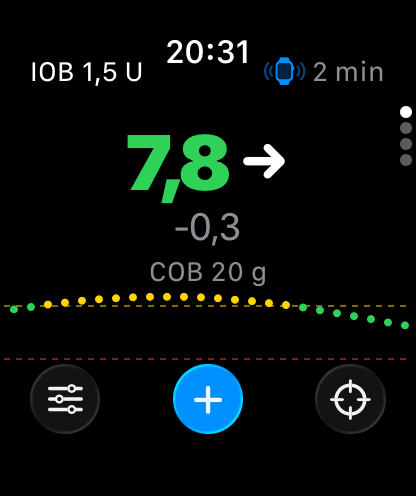
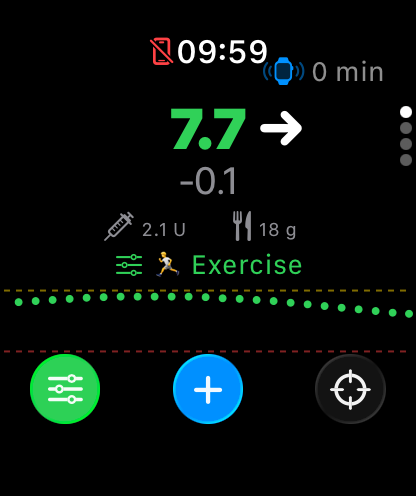
Document Loop profile switching, CGM sensor states and the 8.0 watch layout
Adds a Profiles section to the Loop remote page and a CGM Sensor States section on the setup page, describes the early warning option for the override and temp target end alarms, and updates the statistics settings. The watch page now matches the current glucose page, the scrub screen, the stale recommendation rule and the faster command results. Watch screenshots are retaken following Trio, with new images for the scrub screen and the Loop profile screens.

diff --git a/docs/setup/apple-watch.md b/docs/setup/apple-watch.md
@@ -13,7 +13,7 @@ Normally the watch gets everything from *LoopFollow* on the paired *iPhone*. Whe
 
 The watch app comes with *LoopFollow*. If it does not appear on your watch after you install or update *LoopFollow*, open the *Watch* app on your *iPhone*, scroll to *Available Apps* and tap *Install* next to *LoopFollow*.
 
-Open the watch app once while the *iPhone* is nearby, so it can receive what it needs to work without the *iPhone*.
+Open the watch app once while the *iPhone* is nearby, so it can receive what it needs to work without the *iPhone*. Until the *iPhone* has sent its first data, the watch shows *Waiting for LoopFollow on iPhone*.
 
 ## Using the Watch App
 
@@ -28,37 +28,38 @@ Turn the Digital Crown, or swipe up and down, to move between the pages: Glucose
 * The latest glucose value with its trend arrow and the change since the previous reading
     * Colors follow the *LoopFollow* settings on your *iPhone*: green in range, yellow high, red low, or white when *Color BG Text* is off
     * The value is struck through when the latest reading is 12 minutes old or more
-* Under the Glucose: syringe icon: insulin on board (IOB) and Knife and fork icon: Carbs on board (COB)
-* Top right: minutes since the latest reading
+* Under the change: insulin on board (IOB, syringe symbol) and carbs on board (COB, fork and knife symbol)
+    * *Not looping* is shown in red in place of IOB and COB when the loop has not reported for 15 minutes
+* The running override, in green, with its name and insulin needs, for example *Exercise · 80 %*
+* Top right: minutes since the latest reading, shown in red when the reading is 12 minutes old or more
     * An orange *iPhone* symbol means the watch cannot reach the *iPhone* right now
     * A blue watch symbol means the watch is fetching the data itself
-* *Not looping* is shown in red when the loop has not reported for 15 minutes
 * A graph of the last two hours
 * Buttons for remote commands at the bottom, see [Remote Commands](#remote-commands)
 
 When an alarm is sounding on the *iPhone*, its name is shown at the top of the page. Tap it to snooze the alarm on the *iPhone*. The watch app has no alarms of its own.
 
+When you lower your wrist and the screen dims, only the glucose value and the minutes since the reading stay on the screen.
+
 ### Graph
 
-The Loop graph and out-of-date Trio graph are shown.
+| Following *Loop* | Following *Trio* | Looking back in time |
+|:--:|:--:|:--:|
+| ![LoopFollow watch graph page following Loop](img/watch-graph-loop.png){width="200"} | ![LoopFollow watch graph page following Trio](img/watch-graph-trio.png){width="200"} | ![LoopFollow watch graph looking back in time](img/watch-graph-scrub.png){width="200"} |
 
-![LoopFollow watch graph page](img/watch-graph-loop.png){width="200"}
-{align="center"}
+The graph shows readings, boluses (blue triangles), carbs (orange dots), the high and low lines and the prediction in the same colors as the *iPhone*. Overrides are shown as a thin green band along the top, and the running override is named under the graph.
 
-![LoopFollow watch graph page](img/watch-graph-trio.png){width="200"}
-{align="center"}
-
-The graph shows readings, boluses (blue triangles), carbs (orange dots) and the prediction in the same colors as the *iPhone*.
-
-* Tap the button in the top corner to switch between 1, 3, 6, 12 and 24 hours.
-* Tap the graph to look back in time: turn the Digital Crown to move the marker, and the time and glucose at the marker are shown above the graph. Tap the graph again to return to now.
+* Tap the button in the top corner to switch between 1, 3, 6, 12 and 24 hours. The graph starts at 3 hours.
+* Tap the graph to look back in time. The graph opens on a screen of its own, where the Digital Crown moves the marker back in 5-minute steps, up to 24 hours. Below the graph you see the time at the marker, the glucose with a dot in its range color, and any carbs and bolus at that time, followed by the override that was running then. Tap the graph or go back to return.
 
 ### Statistics
 
 ![LoopFollow watch statistics page](img/watch-stats.png){width="200"}
 {align="center"}
 
-The same statistics as under the graph on the *iPhone*: time low, in range and high, average glucose, GMI or estimated A1C, and standard deviation.
+The same statistics as under the graph on the *iPhone*: time low, in range and high, average glucose, GMI or estimated A1C, and standard deviation. They cover the same period as on the *iPhone*: the last 24 hours, or today since midnight, as chosen with *Stats Period* in [Settings: General](lf-setup.md#general).
+
+When the watch is fetching on its own, an orange line shows the time of the *iPhone*'s latest statistics, for example *From the iPhone at 14:05*.
 
 ### Info
 
@@ -69,7 +70,7 @@ The *iPhone* info table: the same rows, in the same order, with the same colors 
 
 ## Complications
 
-You can add *LoopFollow* to your watch face. Edit the watch face, choose a complication slot and pick *LoopFollow*. All sizes show glucose, trend and the minutes since the reading; the rectangular size also shows a two-hour graph.
+You can add *LoopFollow* to your watch face. Edit the watch face, choose a complication slot and pick *LoopFollow*. All sizes show glucose, trend and the minutes since the reading. The rectangular, corner and inline sizes also show the change since the previous reading, and the rectangular size adds a two-hour graph.
 
 watchOS decides how often complications refresh, so a complication can lag behind the watch app. Always check the minutes shown next to the value.
 
@@ -85,6 +86,8 @@ The buttons on the glucose page send the same commands as the *LoopFollow* remot
 | Overrides (left) | Start one of the override presets, or cancel the active override |
 | **+** (middle) | Meal or Bolus |
 | Temp Target (right) | *Trio* only: start one of the temp target presets saved in *LoopFollow*, or cancel the active temp target |
+
+The Overrides button turns green while an override is running, and the Temp Target button turns green while a temp target is running. The buttons are grayed out when the watch can neither reach the *iPhone* nor send the command on its own.
 
 ![how a command from the watch is sent](img/watch-command-flow.png){width="600"}
 {align="center"}
@@ -102,6 +105,7 @@ The bolus screen opens on the amount. Set it with the Digital Crown, or with the
 
 **Starting at the recommendation**
 
+* A recommendation is only used when no manual bolus has been given since the loop cycle that calculated it. That recommendation does not count the newer bolus, so using it could double the insulin. The next loop cycle makes a new one.
 * When the recommendation from *Loop* or *Trio* is less than 5 minutes old, the amount starts there, rounded down to the bolus increment. The line under the amount shows the recommendation and how old it is, and turns red at 5 minutes.
 * Until you change the amount yourself, the watch keeps it in line with new loop cycles:
     * A lower recommendation replaces the amount, and the watch taps your wrist.
@@ -124,7 +128,7 @@ Tap *Presets*, under *Continue*, for your *LoopFollow* Quick-Pick boluses. The r
 ![LoopFollow watch meal entry](img/watch-meal.png){width="200"}
 {align="center"}
 
-* The rows at the top are your *LoopFollow* Quick-Pick meals.
+* The rows at the top are your *LoopFollow* Quick-Pick meals. Tap one to go straight to the confirmation, logged now.
 * Tap *Carbs* and set the amount with the Digital Crown, or with the **−** and **+** buttons beside the amount. Until you tap a field, the Digital Crown scrolls the screen.
 * For *Trio*, the same fields as on the *iPhone* follow below carbs: fat and protein when *Meal with Fat/Protein* is turned on, and a bolus when *Meal with Bolus* is turned on in the *LoopFollow* *Remote Settings*. Carbs and bolus are sent together as one command.
 * Tap *Time* to log the meal from 2 hours ago to 1 hour ahead. A bolus sent with the meal is given right away, also when the meal is set to another time.
@@ -132,7 +136,8 @@ Tap *Presets*, under *Continue*, for your *LoopFollow* Quick-Pick boluses. The r
 
 ### Safety Checks
 
-* Anything that delivers insulin needs a full turn of the Digital Crown to confirm. The watch must have a passcode, *Wrist Detection* must be on, and the watch must be unlocked on your wrist.
+* Anything that delivers insulin needs a full turn of the Digital Crown to confirm. A partial turn starts over after a 3-second pause, so an accidental bump of the crown never adds up to a confirmation. The watch must have a passcode, *Wrist Detection* must be on, and the watch must be unlocked on your wrist.
+* Commands without insulin, such as carbs only, overrides and temp targets, are sent with a *Send* button.
 * Every command is checked against the same limits as the *iPhone* remote screens, such as *Max Bolus* and *Max Carbs*, before it is sent.
 * Commands are never saved to send later, and a command that arrives more than 60 seconds after it was made is ignored.
 
@@ -142,6 +147,8 @@ Tap *Presets*, under *Continue*, for your *LoopFollow* Quick-Pick boluses. The r
 {align="center"}
 
 *Sent* means the command has been sent. It does **not** mean that *Loop* or *Trio* has acted on it. Wait for the notification from *Loop* or *Trio* that confirms the result, the same as when you send a command from the *iPhone*. The watch returns to the glucose page after a few seconds.
+
+The result usually shows on the watch within a minute or two: after a command, the *iPhone* checks *Nightscout* several times during the first 2 minutes, and the watch does the same after a command it sent on its own.
 
 If something goes wrong, the watch shows the reason and stays on that screen until you tap *OK*. If the *iPhone* does not answer within 30 seconds, the watch says that the command may still have been sent: check *Loop* or *Trio* before you try again.
 
@@ -160,7 +167,7 @@ The watch normally gets its data and sends its commands through the *iPhone*. Wh
 {align="center"}
 
 * **Data**: when the *iPhone* has not sent anything for 10 minutes, the watch fetches glucose, IOB, COB, the prediction and treatments directly from *Nightscout*, or glucose from *Dexcom Share* if you do not use *Nightscout*. A blue watch symbol next to the minutes shows that the watch is fetching on its own. Statistics and the info table keep showing the *iPhone*'s latest values, with the time they are from.
-* **Commands**: when the *iPhone* is out of reach, the watch sends the command directly to *Loop* or *Trio*, checked against the limits it last received from the *iPhone*. The confirmation from *Loop* or *Trio* still goes to the *iPhone*, so check *Loop* or *Trio* for the result. Insulin can be sent from the watch alone at most once a minute.
+* **Commands**: when the *iPhone* is out of reach, the watch sends the command directly to *Loop* or *Trio*, checked against the limits it last received from the *iPhone*. The confirmation from *Loop* or *Trio* still goes to the *iPhone*. The watch checks *Nightscout* itself 10, 20, 40 and 60 seconds after the command and shows the result once it appears there. If it does not show, check *Loop* or *Trio* before you try again. Insulin can be sent from the watch alone at most once a minute.
 * Snoozing an alarm needs the *iPhone*.
 
 As soon as the *iPhone* is back, the watch switches back to it.

diff --git a/docs/remote/remote-control-loop.md b/docs/remote/remote-control-loop.md
@@ -87,7 +87,7 @@ Carb entries from *Loop* can be edited or deleted on the [Treatments](../setup/l
 | ![Edit Carbs screen](img/lf-lrc-carb-edit.png){width="300"} | ![delete carbs confirmation](img/lf-lrc-carb-delete.png){width="300"} |
 |:--:|:--:|
 
-Carb entries can be edited up to 23 hours after their original entry time.
+Carb entries can be edited or deleted from 23 hours after their time to 1 hour before it, so an entry set up to 1 hour into the future can be changed as well.
 
 The actions need the remote carb edit customization in the *Loop* app. Without it, the carb entry details show "Editing carbs needs the remote carb edit customization in Loop."
 
@@ -95,7 +95,7 @@ The actions need the remote carb edit customization in the *Loop* app. Without i
 
 The Insulin screen sends a remote bolus to *Loop*:
 
-* **Recommended Bolus** — when the last recommendation *Loop* uploaded is less than 12 minutes old, it is shown at the top; tap the arrow to fill it into the amount field. A warning reminds you that new treatments may have occurred since it was calculated.
+* **Recommended Bolus** — when the last recommendation *Loop* uploaded is less than 12 minutes old, it is shown at the top; tap the arrow to fill it into the amount field. A warning reminds you that new treatments may have occurred since it was calculated. A recommendation is not shown when a manual bolus has been given since the loop cycle that calculated it, from *Loop*, *LoopFollow* or the watch, since it does not count that bolus. The next loop cycle makes a new one.
 * **Insulin Amount** — from 0.025 U up to the **Max Bolus** guardrail set in Remote Settings.
 * **Security** — the same one-time password rules as Remote Meal apply: the code rotates every 30 seconds and each code can be used only once.
 
@@ -171,6 +171,25 @@ Tap a preset to open the activation sheet:
 
 While an override is active, it is listed in an **Active Override** section with its remaining time and a button to cancel it. The remaining time is a live countdown when 2 hours or less remain; otherwise it is shown as a duration, such as 5h 30m. Overrides enabled indefinitely show no remaining time.
 
+### Profiles
+
+!!! info "Available in *LoopFollow* 8.0 and newer"
+
+The **Profiles** button switches the active profile in *Loop*. It lists the profiles saved in *Loop* under *Saved profiles*, with the active one marked *Active*. *LoopFollow* reads them from what *Loop* uploads to *Nightscout*, and the time of that upload is shown under the list.
+
+| Saved profiles | Review before activating |
+|:--:|:--:|
+| ![list of saved Loop profiles](img/lf-lrc-profiles.png){width="300"} | ![preview of a Loop profile](img/lf-lrc-profile-preview.png){width="300"} |
+
+Tap a profile to review it before anything is sent. The screen shows the values *Loop* will use: correction range, carb ratios, basal rates with the daily total, and insulin sensitivities.
+
+* Tap **Activate Profile** and confirm. You must then confirm your identity with Face ID, Touch ID or your passcode before the command is sent.
+* *Loop* replaces its correction range, carb ratios, basal rates and insulin sensitivities with the profile's values, and writes the basal rates to the pump.
+* While *LoopFollow* waits for *Loop*'s reply, the button shows *Waiting for Loop...*. Only one profile switch can be pending at a time.
+* The reply is shown as *Profile Activated*, *Profile Not Activated* with the reason, or *No Reply From Loop*.
+
+Switching profiles needs *Loop* built with the Profile Save & Load customization, added with the Loop and Learn Customization Select script. Without it, the button is gray, and tapping it shows *Profiles Not Available*. If no profiles are listed, save them in *Loop* under Settings → Profiles.
+
 - - -
 
 ## FAQs for Remote Commands
@@ -214,8 +233,7 @@ For remote overrides in particular:
         * If it is a named preset (override), the name is listed at the top of the screen in the Active Override row
         * If you want to see the details, you may need to scroll down to find that override in the list
         * A custom override (not named) shows up as "Custom Override" in the Active Override row - the details can be observed in the Information Table on the main *LoopFollow* screen
-    * With older versions of LoopFollow, the values set for the override may take up to 5 minutes to appear in the Information Table Display, at which time the %insulin needs and target are shown.
-    * With *LoopFollow* version 8.0.0, the remote command response is typically returned in seconds when APNs is working properly
+    * With *LoopFollow* 8.0 and newer, *LoopFollow* checks *Nightscout* several times during the first 2 minutes after a remote command, so the values set for the override usually appear in the Information Table Display within a minute or two, once *Loop* has uploaded them. With older versions, this may take up to 5 minutes.
 
 1. **Can a looper cancel a remote override**?  
    **Answer**: Yes. They can tap the heart icon <font color="blue">:fontawesome-solid-heart-pulse:</font> in&nbsp;_<span translate="no">Loop</span>_&nbsp;so that it is no longer highlighted. This turns off the override, regardless of where it was initiated.
@@ -367,7 +385,7 @@ While you are on the *Loop* Settings -> Services -> NightScout screen, notice th
 
 *Loop* uploads its APNS environment to *Nightscout*, and *LoopFollow* reads it from there. It is shown in the [Debug / Info](#debug-info) section as **APNS Environment**: Production when *Loop* was installed with TestFlight, Development when it was installed directly from Xcode to the phone.
 
-*Loop* uploads this value for version 3.14.7 or newer. Until it has, *LoopFollow* uses Development.
+*Loop* uploads this value for version 3.14.7 or newer. Until it has, *LoopFollow* keeps the setting from the earlier Production toggle, or uses Development on a new install.
 
 ### Debug / Info
 

diff --git a/docs/setup/lf-setup.md b/docs/setup/lf-setup.md
@@ -108,6 +108,16 @@ A symbol below the glucose age shows the status of the last `loop`, next to the 
 
 While in open loop, *Trio* does not upload its full insulin-on-board details, so the IOB row shows the value from *Trio*'s latest suggestion. No temporary basals are set in open loop, so the Basal row shows the scheduled basal from the profile.
 
+### CGM Sensor States
+
+When the CGM has no reliable reading, *Loop* and *Trio* can upload a note to *Nightscout* with the state the CGM reported, for example `CGM: temporarySensorIssue`. *LoopFollow* (8.0 and newer) shows these states:
+
+* On the main graph, as an orange triangle at the last reading before the note. Tap it to see the state and its time. The markers are shown when [Graph Other Treatments](#advanced-settings) is enabled.
+* Under the glucose on the Home screen, on the [Snoozer](lf-features.md#snoozer) and on the [Live Activity](#live-activity), in orange, for example *CGM: Temporary sensor issue at 22:33*. The state is shown until a newer reading arrives.
+* In the Missed Reading and Not Looping notifications, as an extra line.
+
+The notes are read with the other treatments, so [Download Treatments](#advanced-settings) must be enabled. The state is information only. Alarms work the same as without it.
+
 - - -
 
 ## Toolbar
@@ -267,7 +277,6 @@ These settings are accessed through the General row in the Settings screen.
 | Display App Badge | When enabled<br>- current glucose is displayed with app icon<br>- select a Background Refresh option or badge will be stale. | 
 | Persistent Notification | Typically disabled<br> When enabled, glucose is reported with every update |
 | Appearance | Choose Light, Dark or System for appearance |
-| Display Stats | When enabled, statistics for the last 24 hours are displayed on Home screen |
 | Display Small Graph | When enabled, a full history graph is displayed under the main plot. The history is determined by the Number of Days Back chosen in the Graph screen. Tap the small graph to move the main graph to that point in time; drag your finger across it to scrub the main graph in real time |
 | Color BG Text | When enabled, use colors to highlight low, in-range and high values |
 | Keep Screen Active | When enabled, override the auto-lock setting<br>This works whether the phone is plugged in or not, so be sure to lock screen manually|
@@ -275,8 +284,8 @@ These settings are accessed through the General row in the Settings screen.
 | Snoozer Emoji | When enabled, the snoozer screen shows emojis in addition to glucose values |
 | Force Portrait Mode | When enabled, aspect ratio is not affected by phone orientation |
 | Statistics: Display Stats | When enabled, statistics are displayed at the bottom of the home screen<br>Ranges are chosen under [Settings->Units and Metrics](#units-and-metrics){: target="_blank" } |
-| Statistics: Stats Style | Options are<br>- Statistics Box: original pie-chart with table<br>- Time in Range Band: graphical, colored bar |
-| Statistics: Stats Period | Options are<br>- last 24 hours<br>- Time since midnight |
+| Statistics: Stats Style | Shown when Display Stats is enabled. Options are<br>- Statistics Box: original pie-chart with table<br>- Time in Range Band: graphical, colored bar |
+| Statistics: Stats Period | Shown when Display Stats is enabled. Options are<br>- Last 24 Hours<br>- Today (since midnight): midnight in your time zone, or in the Time Zone Override when it is on<br>The [Apple Watch](apple-watch.md#statistics) statistics use the same period |
 | Time Zone Override | When enabled, another row is displayed<br>Select the time zone for the T1D who is being followed |
 | Speak BG | When enabled, glucose is spoken aloud in selected language<br>Options are available to limit this but see also Persistent Notification |
 
@@ -614,7 +623,7 @@ A number of different options can be adjusted in this screen.
 | Graph Basal | enabled | Actual Basal Rates, if available, are downloaded and displayed |
 | Graph Bolus | enabled | Manual and Automatic Bolus values, if available, are downloaded and displayed |
 | Graph Carbs | enabled | Meal Entries, if available, are downloaded and displayed |
-| Graph Other Treatments | enabled | Treatment notes, if available, are downloaded and displayed |
+| Graph Other Treatments | enabled | Treatment notes, if available, are downloaded and displayed, including [CGM Sensor States](#cgm-sensor-states) |
 | BG Update Delay | 10 sec | how many seconds *LoopFollow* waits before it fetches it from your data source<br>See [Update Delay Explained](#update-delay-explained)|
 | Debug Log Level | enabled | Allows you to enable or disable debug logging<br>See [Debug Log Level](#debug-log-level) |
 

diff --git a/docs/faqs/lf-history.md b/docs/faqs/lf-history.md
@@ -12,11 +12,17 @@
 
     * An [Apple Watch app](../setup/apple-watch.md){: target="_blank" } with glucose, graph, statistics and info pages, [complications](../setup/apple-watch.md#complications){: target="_blank" }, and [remote boluses and meals](../setup/apple-watch.md#remote-commands){: target="_blank" } from the watch
     * Edit or delete meals and carbs remotely from the Treatments view, for [Loop](../remote/remote-control-loop.md#edit-or-delete-carbs){: target="_blank" } and [Trio](../remote/remote-control-trio.md#edit-or-delete-a-meal){: target="_blank" }
-    * Switch Loop profiles from the Loop remote screen
+    * [Switch Loop profiles](../remote/remote-control-loop.md#profiles){: target="_blank" } from the Loop remote screen
+    * Remote command results show sooner on the phone, watch and Live Activity
+    * A bolus recommendation is not offered when a bolus has been given since it was calculated
     * Tap a pill in the main graph to open the treatment's details
     * History graphs for device status values, with values at a scrubbed time
-    * CGM sensor states from Nightscout notes are shown
-    * Home screen statistics show the time in range band, for the last 24 hours or since midnight
+    * [CGM sensor states](../setup/lf-setup.md#cgm-sensor-states){: target="_blank" } from Nightscout notes are shown on the graph, Home screen, Snoozer and Live Activity
+    * Home screen statistics: choose the Statistics Box or the Time in Range Band with *Stats Style*, for the last 24 hours or since midnight with *Stats Period*
+    * Optional [early warning](../setup/lf-features.md#override-target){: target="_blank" } before an override or temp target ends
+    * Basal follows the scheduled basal after a temp basal ends, and shows 0 while a *Trio* pump is suspended
+    * The previous pod's reservoir is ignored after a pod change
+    * Larger text on the Snoozer
     * Loop automatic boluses are labeled Auto Bolus in the graph
     * The Loop APNS environment is shown as information, read from Nightscout
     * Live Activity: fits narrow lock screens, uses the selected range colors, and updates without being postponed by frequent polling

diff --git a/docs/setup/lf-features.md b/docs/setup/lf-features.md
@@ -121,11 +121,11 @@ The table below lists every alarm type available in *LoopFollow*, organized by g
 | Alarm | Description |
 |:--|:--|
 | Override Started | An override just started |
-| Override Ends Soon | User can select an early warning time from 0 to 30 min, steps of 5 |
-| Override Ended | An override ended |
+| Override Ended | An override ended<br>Optional early warning, see below |
 | Temp Target Started | A temp target started |
-| Temp Target Ends Soon | User can selectan early warning time from 0 to 30 min, steps of 5 |
-| Temp Target Ended | A temp target ended |
+| Temp Target Ended | A temp target ended<br>Optional early warning, see below |
+
+The Override Ended and Temp Target Ended alarms have an **Early Warning** section with a **Warn before end** setting, from 0 to 30 minutes in steps of 5. When it is above 0, an extra alert titled *Override Ending Soon* or *Temp Target Ending Soon* sounds that many minutes before the end, and the alarm still sounds when it ends. The default is 0, which gives no early warning.
 
 
 - - -
@@ -136,6 +136,8 @@ The Snoozer is a dedicated tab designed for the night stand and at-a-glance moni
 
 ![Snoozer screen](img/lf-snoozer.png){width="350"}
 {align="center"}
+
+When *Loop* or *Trio* reports a CGM state without reliable glucose, such as a temporary sensor issue, the Snoozer shows it in orange under the glucose until a newer reading arrives, see [CGM Sensor States](lf-setup.md#cgm-sensor-states).
 
 Two options in [Settings: General](lf-setup.md#general) tailor the screen: **Show Display Name** adds the app name (handy when following more than one person), and **Snoozer emoji** adds a face that reflects the current glucose.
 

diff --git a/docs/remote/remote-control-trio.md b/docs/remote/remote-control-trio.md
@@ -112,7 +112,7 @@ The actions need a *Trio* version that supports them. With an older version, the
 
 The Bolus screen sends a remote bolus to *Trio*:
 
-* **Recommended Bolus** — when *Trio*'s latest recommendation is less than 12 minutes old, it is shown at the top; tap the arrow to fill it into the amount field. A warning reminds you that new treatments may have occurred since it was calculated.
+* **Recommended Bolus** — when *Trio*'s latest recommendation is less than 12 minutes old, it is shown at the top; tap the arrow to fill it into the amount field. A warning reminds you that new treatments may have occurred since it was calculated. A recommendation is not shown when a manual bolus has been given since the loop cycle that calculated it, from *Trio*, *LoopFollow* or the watch, since it does not count that bolus. The next loop cycle makes a new one.
 * **Bolus Amount** — capped by the **Max Bolus** guardrail. The amount is rounded down to the pump's bolus increment, which is detected automatically from *Nightscout*; a manual **Bolus Increment** setting appears in Remote Settings only when it cannot be detected.
 
 After the confirmation, you must authenticate with Face ID or your passcode before the bolus command is sent.

diff --git a/docs/build/lf-browser-build.md b/docs/build/lf-browser-build.md
@@ -236,7 +236,7 @@ You will need to add the `LoopFollow App Group` to the App Group capability for 
 
 ### Identifiers for the *LoopFollow* app
 
-For each Identifier in the table below, click on the Identifer and then add the LoopFollow App Group to the App Group capability.
+For each Identifier in the table below, click on the Identifier and then add the LoopFollow App Group to the App Group capability.
 
 | Name (Description) | Bundle ID |
 | --- | --- |
